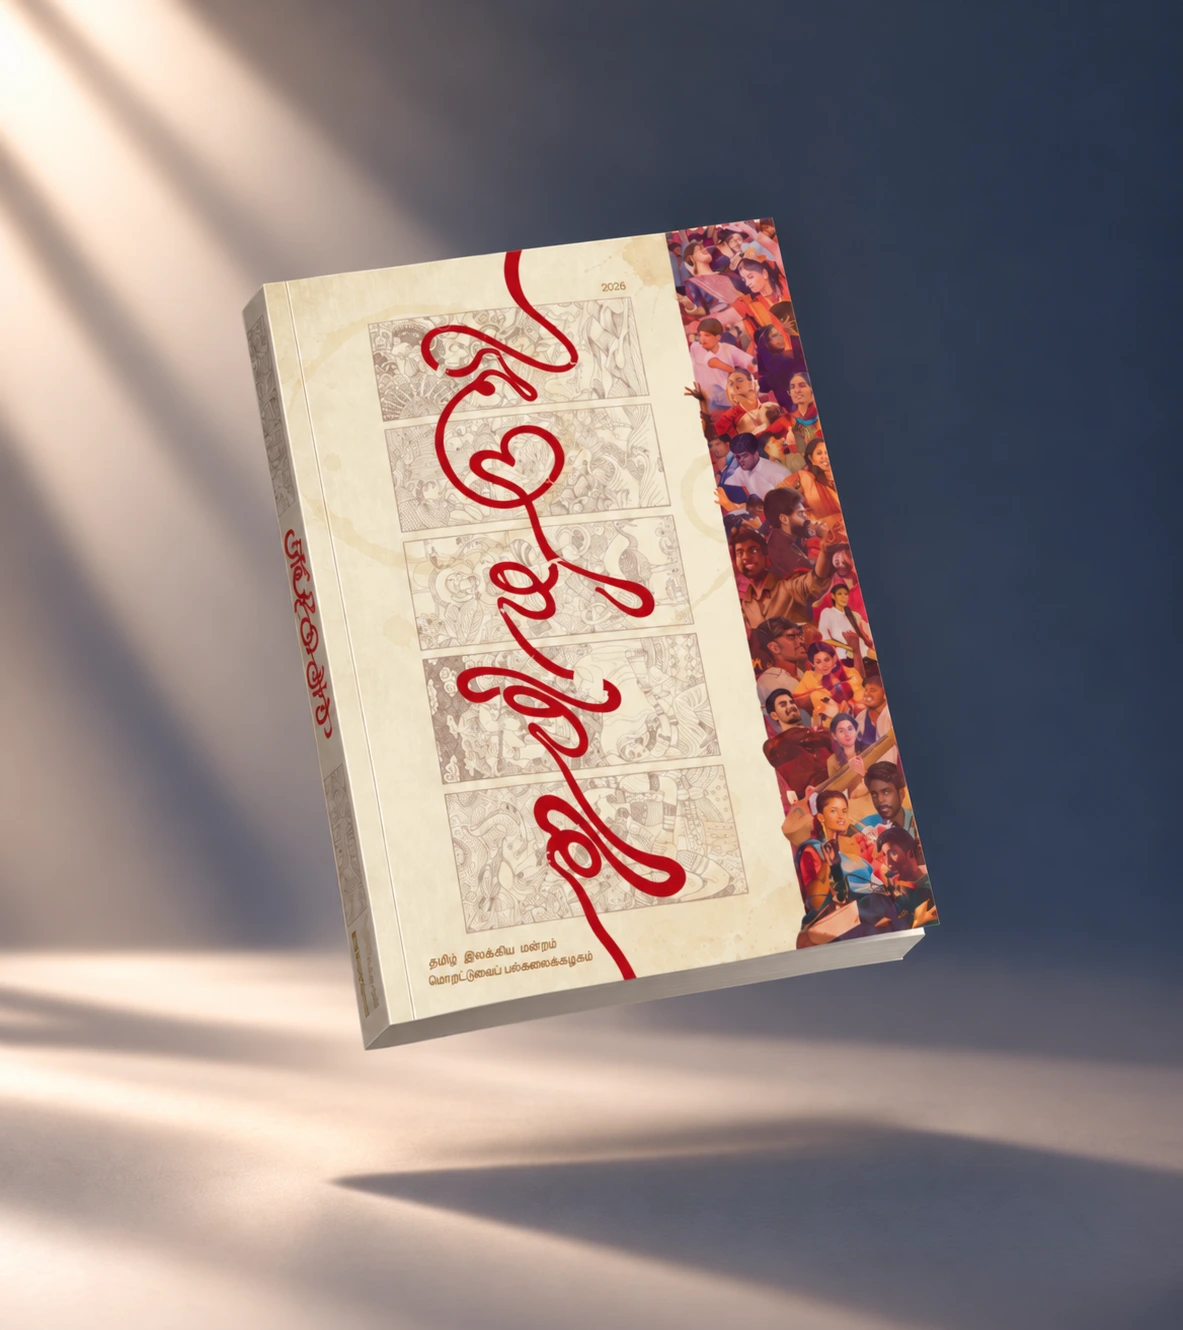
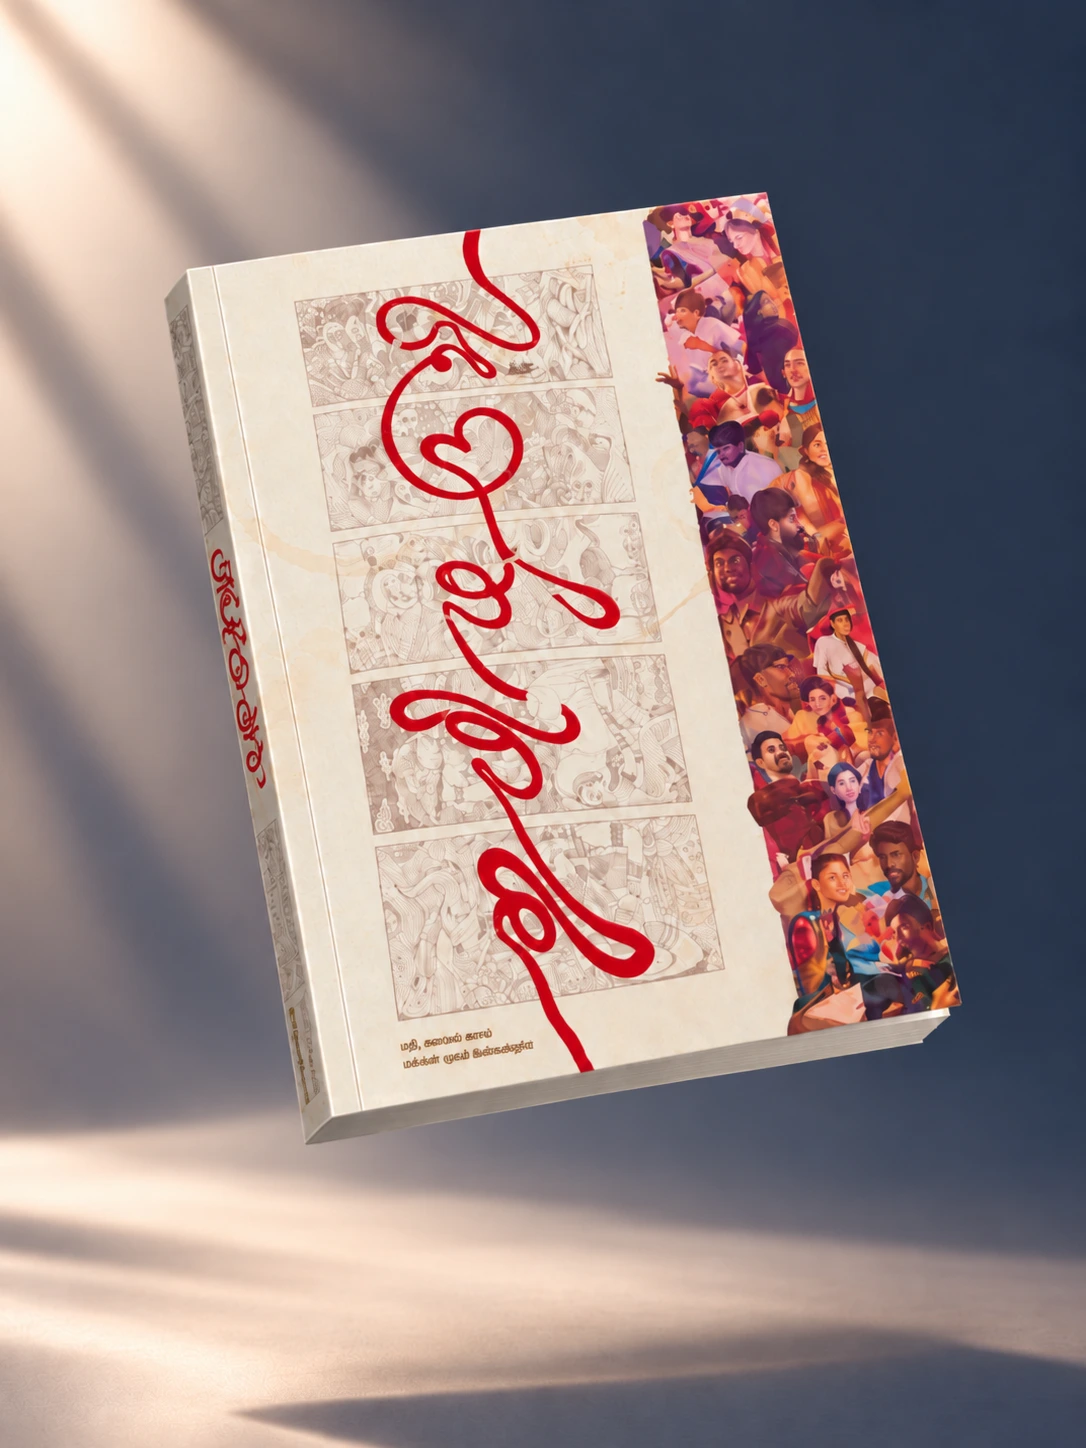
card UI updated

diff --git a/src/Components/book/books-container/BooksContainer.js b/src/Components/book/books-container/BooksContainer.js
@@ -63,15 +63,15 @@ const BooksContainer = () => {
                     {allBooks
                         .filter(book => book.isTlaBook && book.isAccept)
                         .sort((a, b) => a.year - b.year)
-                        .map((book) => {
+                        .map((book, index) => {
                             return (
-                                <>
-                                    <div className={loading ? "book-card fade-in" : "book-card"} onClick={() => handleOpen(book)}>
+                                <div key={`${book.bookName}-${index}`} className={loading ? "book-card fade-in" : "book-card"} onClick={() => handleOpen(book)}>
+                                    <div className="book-img-wrap">
                                         <img src={book.img} alt="book" className="book-img" />
-                                        <p className="book-name">{book.bookName}</p>
-                                        <p className="book-year">{book.year}</p>
                                     </div>
-                                </>
+                                    <p className="book-name">{book.bookName}</p>
+                                    <p className="book-year">{book.year}</p>
+                                </div>
                             )
                         })
                     }
@@ -84,15 +84,15 @@ const BooksContainer = () => {
                     {books
                         .filter(book => !book.isTlaBook && book.isAccept)
                         .sort((a, b) => a.year - b.year)
-                        .map((book) => {
+                        .map((book, index) => {
                             return (
-                                <>
-                                    <div className={loading ? "book-card fade-in" : "book-card"} onClick={() => handleOpen(book)}>
+                                <div key={`${book.bookName}-${index}`} className={loading ? "book-card fade-in" : "book-card"} onClick={() => handleOpen(book)}>
+                                    <div className="book-img-wrap">
                                         <img src={book.img} alt="book" className="book-img" />
-                                        <p className="book-name">{book.bookName}</p>
-                                        <p className="book-author">{book.author}</p>
                                     </div>
-                                </>
+                                    <p className="book-name">{book.bookName}</p>
+                                    <p className="book-author">{book.author}</p>
+                                </div>
                             )
                         })
                     }

diff --git a/src/Components/book/books-container/booksContainer.css b/src/Components/book/books-container/booksContainer.css
@@ -19,19 +19,20 @@
 .books{
     display: flex;
     flex-wrap: wrap;
-    justify-content:left;
+    justify-content: left;
+    gap: 28px;
 }
 
 .book-card{
-    margin-right: 20px;
-    margin-bottom: 20px;
-    box-shadow: rgba(99, 99, 99, 0.2) 0px 2px 8px 0px;
-    min-width: 220px;
-    width: 220px;
-    height: 280px;
-    border-radius: 5px;
+    width: 230px;
+    min-width: 230px;
+    border-radius: 14px;
+    overflow: hidden;
+    background: #ffffff;
+    box-shadow: 0 6px 18px rgba(2, 35, 69, 0.14);
     opacity: 0;
-    transition: opacity 2s ease;
+    cursor: pointer;
+    transition: opacity 1.2s ease, transform 0.25s ease, box-shadow 0.25s ease;
 }
 
 .book-card.fade-in {
@@ -39,43 +40,53 @@
 }
 
 .book-card:hover{
-    box-shadow: rgba(0, 0, 0, 0.24) 0px 3px 8px;
-    transform: scale(1.01);
-    transition-duration: 0.5s;
-    cursor: pointer;
+    transform: translateY(-6px);
+    box-shadow: 0 18px 34px rgba(2, 35, 69, 0.26);
 }
 
-.book-name{
-    color: #022345 !important;
-    font-size: 26px;
-    font-family: 'Para' !important;
-    letter-spacing: normal;
-    text-align: center;
-    margin: 0;
-    margin-top: 10px;
-}
-
-.book-year{
-    color: #022345 !important;
-    font-size: 18px;
-    font-family: 'Source' !important;
-    letter-spacing: normal;
-    text-align: center;
-    margin: 0;
-}
-
-.book-author{
-    color: #022345 !important;
-    font-size: 18px;
-    font-family: 'Para' !important;
-    letter-spacing: normal;
-    text-align: center;
-    margin: 0;
+.book-img-wrap{
+    width: 100%;
+    height: 300px;
+    background: linear-gradient(160deg, #1b2437 0%, #070810 100%);
+    overflow: hidden;
 }
 
 .book-img{
     width: 100%;
-    height: 70%;
+    height: 100%;
+    object-fit: cover;
+    object-position: center;
+    display: block;
+}
+
+.book-name{
+    color: #022345 !important;
+    font-size: 20px;
+    font-family: 'Para' !important;
+    letter-spacing: normal;
+    text-align: center;
+    margin: 0;
+    padding: 14px 12px 2px;
+}
+
+.book-year{
+    color: #717274 !important;
+    font-size: 15px;
+    font-family: 'Source' !important;
+    letter-spacing: normal;
+    text-align: center;
+    margin: 0;
+    padding: 0 12px 16px;
+}
+
+.book-author{
+    color: #717274 !important;
+    font-size: 15px;
+    font-family: 'Para' !important;
+    letter-spacing: normal;
+    text-align: center;
+    margin: 0;
+    padding: 0 12px 16px;
 }
 
 .book-modal{
